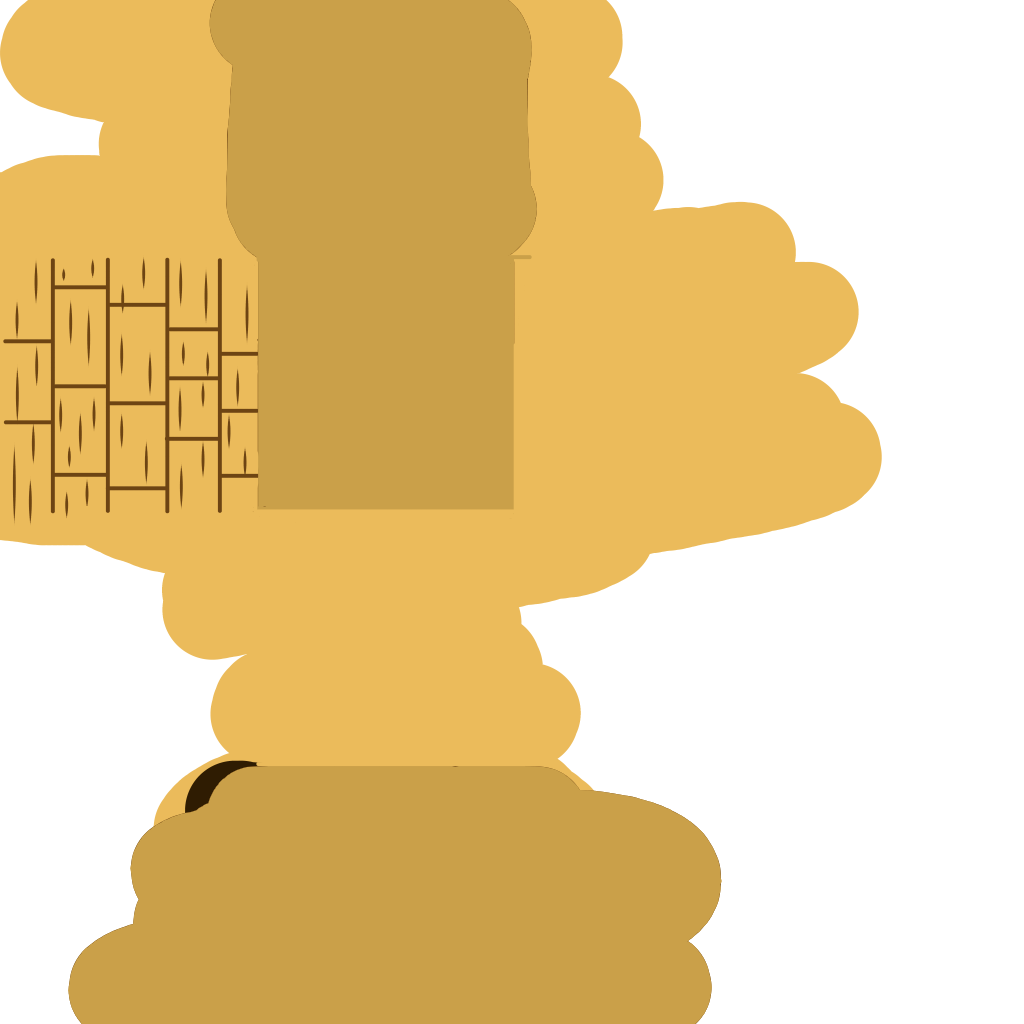
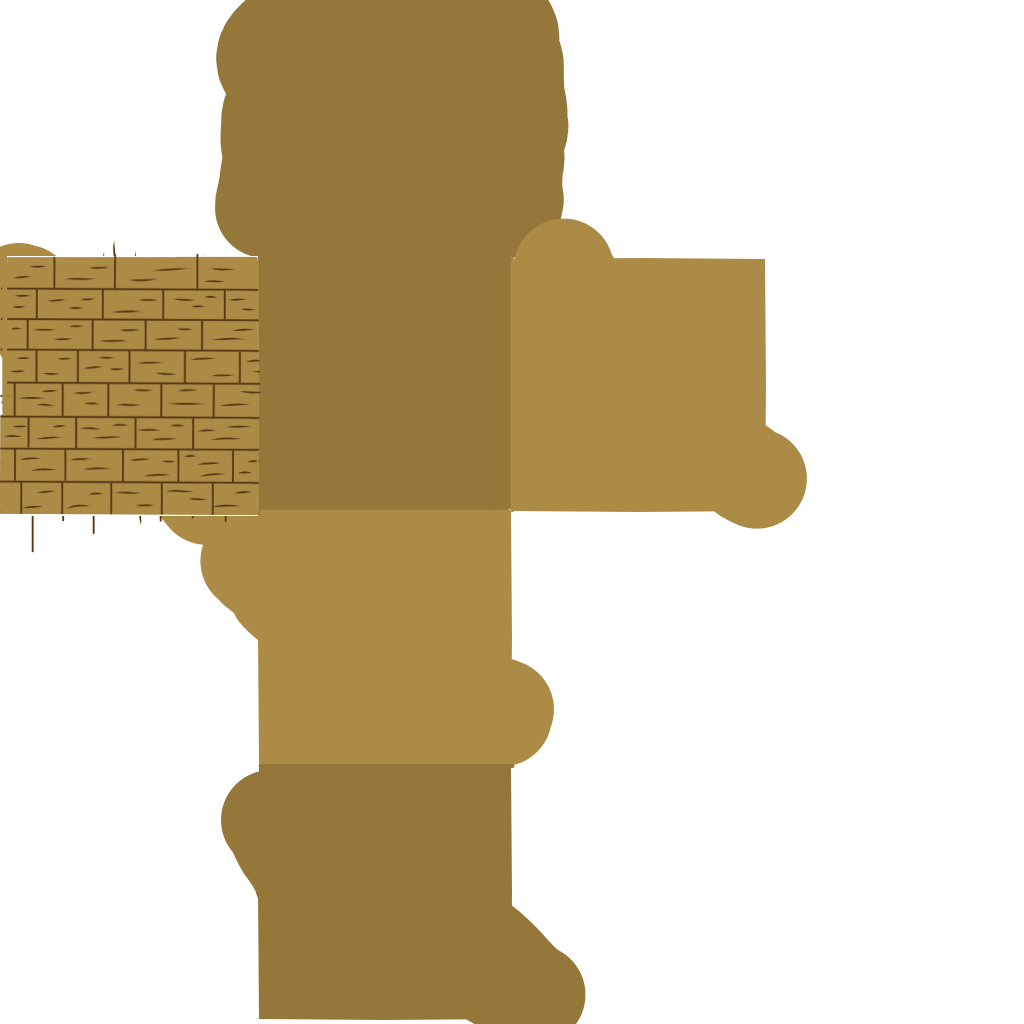
敵の移動時のモーションを追加しました。

diff --git a/Game/Object/NoteEnemy.cpp b/Game/Object/NoteEnemy.cpp
@@ -81,7 +81,7 @@ void NoteEnemy::Update(){
 	ApplyGlobalVariabls();
 #endif // _DEBUG
 
-	
+	MovingMotion();
 
 	////移動速度の更新
 	//moveSpeed_ = Field::influenceOnSpeed_[fieldIndex_];
@@ -89,7 +89,6 @@ void NoteEnemy::Update(){
 	//音符に変わったらモデルを変える
 	if (isChangedNote_){
 		
-		models_[0]->transform.rotate = {0.0f,-1.5f,0.0f};
 
 		if (isChanegeEffect_){
 			emit.pos = GetCenterPos();
@@ -135,7 +134,7 @@ void NoteEnemy::OnCollision(Character* other){
 		bool movedToNewField = false; // 段が移動したかどうかを確認
 
 		// 高さの差をチェックして、十分な高さの差がある場合のみ移動を許可
-		const float kHeightDifferenceThreshold = 1.0f; // 十分な高さの差の閾値
+		const float kHeightDifferenceThreshold = 0.8f; // 十分な高さの差の閾値
 
 		// プレイヤーが敵の上にある場合（敵を踏んだ場合）
 		if (playerPos.y > enemyPos.y + kHeightDifferenceThreshold){
@@ -163,6 +162,9 @@ void NoteEnemy::OnCollision(Character* other){
 
 			// 段が移動した、または上下の面に触れた場合に音符に変わる
 			isChangedNote_ = true;
+
+			//姿勢をリセット
+			models_[0]->transform.rotate = {0.0f,-1.5f,0.0f};
 
 			if (!isChainEnemy_){
 				//つながっていない場合単体の音符になる
@@ -225,6 +227,45 @@ void NoteEnemy::Move(){
 		models_[0]->transform.translate.x -= moveSpeed_ * noteSpeedMagnification_ * kDeltaTime;
 	} else{
 		models_[0]->transform.translate.x -= moveSpeed_  * kDeltaTime;
+	}
+}
+
+void NoteEnemy::MovingMotion(){
+	//音符の時の移動モーション
+	if (isChangedNote_){
+		static float motionTime = 0.0f; // 時間を保持する変数
+		float swayFrequency = 5.0f;     // 揺れの速さ（調整可能）
+		float swayAmplitude = 0.007f;     // 揺れの幅（調整可能）
+
+		// 時間の経過を加算
+		motionTime += 0.0166f;
+
+		// sin関数で横揺れの変位を計算
+		float swayOffset = swayAmplitude * sin(swayFrequency * motionTime);
+
+		// X座標に揺れのオフセットを適用
+		models_[0]->transform.rotate.z += swayOffset * FPSKeeper::DeltaTime();
+
+	}
+
+	//敵状態の移動モーション
+	else{
+		
+		static float motionTime = 0.0f; // 時間を保持する変数
+		float swayFrequency = 5.0f;     // 揺れの速さ（調整可能）
+		float swayAmplitude = 0.007f;     // 揺れの幅（調整可能）
+
+		// 時間の経過を加算
+		motionTime += 0.0166f;
+
+		// sin関数で横揺れの変位を計算
+		float swayOffset = swayAmplitude * sin(swayFrequency * motionTime);
+
+		// X座標に揺れのオフセットを適用
+		models_[0]->transform.rotate.y += swayOffset * FPSKeeper::DeltaTime();
+		models_[0]->transform.rotate.x += swayOffset * FPSKeeper::DeltaTime();
+
+		models_[0]->transform.scale.y += swayOffset * FPSKeeper::DeltaTime();
 	}
 }
 

diff --git a/Game/Object/NoteEnemy.h b/Game/Object/NoteEnemy.h
@@ -48,6 +48,8 @@ public:
 	/// 移動
 	/// </summary>
 	void Move();
+
+	void MovingMotion();
 	
 	/// <summary>
 	/// 音符に変わったか
